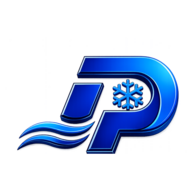
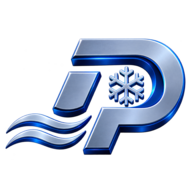
Corrige status de obras e atualiza identidade ProAR

diff --git a/app/page.tsx b/app/page.tsx
@@ -189,10 +189,10 @@ type Customer = {
   financialStatus?: "Liberado" | "Alerta" | "Somente à vista" | "Bloqueado";
 };
 
-type HouseWorkStatus = "AG. FRIGORÍGENA" | "AG. ACABAMENTO" | "AG. TUBULAÇÃO FORÇADA" | "AG. EXAUSTOR" | "AG. TAMPA FRIGORÍGENA" | "SERVIÇO CONCLUÍDO";
+type HouseWorkStatus = "INÍCIO DE OBRA" | "AG. FRIGORÍGENA" | "AG. ACABAMENTO" | "AG. TUBULAÇÃO FORÇADA" | "AG. EXAUSTOR" | "AG. TAMPA FRIGORÍGENA" | "SERVIÇO CONCLUÍDO";
 type LegacyHouseWorkStatus = "AG FRIGORÍGENA" | "AG VENTO KIT" | "VENTOKIT E FRIGORÍGENA OK" | "AG ACABAMENTO" | "AG EXAUSTOR" | "AG TAMPA FRIGORÍGENA" | "FIM";
 type HouseStagePhoto = { label: string; url: string };
-type HouseWorkUpdate = { id: string; status: HouseWorkStatus | LegacyHouseWorkStatus; note: string; responsible?: string; photo?: string; photos?: string[] | HouseStagePhoto[]; createdAt: string; completedAt?: string };
+type HouseWorkUpdate = { id: string; status: HouseWorkStatus | LegacyHouseWorkStatus; previousStatus?: HouseWorkStatus; note: string; responsible?: string; photo?: string; photos?: string[] | HouseStagePhoto[]; createdAt: string; completedAt?: string; origin?: string };
 type HouseIncident = { id: string; type: "Perda" | "Roubo"; note: string; photo: string; responsible: string; createdAt: string };
 type HouseWorkItem = { id: string; block: string; lot: number; kind?: "house" | "common"; name?: string; status: HouseWorkStatus | LegacyHouseWorkStatus; photo?: string; photos?: string[] | HouseStagePhoto[]; note?: string; updatedAt?: string; history: HouseWorkUpdate[]; incidents?: HouseIncident[] };
 type WorkBlock = { block: string; houses: number };
@@ -206,11 +206,12 @@ const HOUSE_BLOCKS = [
 ] as const;
 const RESERVA_IMPERIAL: WorkProject = { id: "reserva-imperial", name: "Reserva Imperial", blocks: HOUSE_BLOCKS.map(item => ({...item})), commonAreas: ["Academia", "Salão de Festas", "Área Gourmet", "Administrativo"], createdAt: "2026-08-11T00:00:00.000Z" };
 const HOUSE_STATUSES: { name: HouseWorkStatus; color: string }[] = [
-  { name: "AG. FRIGORÍGENA", color: "#ef4444" }, { name: "AG. ACABAMENTO", color: "#f59e0b" },
+  { name: "INÍCIO DE OBRA", color: "#64748b" }, { name: "AG. FRIGORÍGENA", color: "#ef4444" }, { name: "AG. ACABAMENTO", color: "#f59e0b" },
   { name: "AG. TUBULAÇÃO FORÇADA", color: "#8b5cf6" }, { name: "AG. EXAUSTOR", color: "#06b6d4" },
   { name: "AG. TAMPA FRIGORÍGENA", color: "#3b82f6" }, { name: "SERVIÇO CONCLUÍDO", color: "#16a34a" },
 ];
 const HOUSE_STAGE_PHOTOS: Record<HouseWorkStatus, string[]> = {
+  "INÍCIO DE OBRA": [],
   "AG. FRIGORÍGENA": ["Sala", "Quarto Frente", "Quarto Meio", "Quarto Fundo", "Home"],
   "AG. ACABAMENTO": ["Sala", "Quarto Frente", "Quarto Meio", "Quarto Fundo", "Home", "VTK Fundo"],
   "AG. TUBULAÇÃO FORÇADA": ["Tubulação Forçada"],
@@ -219,11 +220,11 @@ const HOUSE_STAGE_PHOTOS: Record<HouseWorkStatus, string[]> = {
   "SERVIÇO CONCLUÍDO": [],
 };
 const HOUSE_STAGE_OPTIONAL_PHOTOS: HouseWorkStatus[] = ["AG. TUBULAÇÃO FORÇADA"];
-const LEGACY_HOUSE_STATUS_MAP: Partial<Record<HouseWorkStatus | LegacyHouseWorkStatus, HouseWorkStatus>> = {
+const LEGACY_HOUSE_STATUS_MAP: Record<string, HouseWorkStatus> = {
   "AG FRIGORÍGENA": "AG. FRIGORÍGENA", "AG VENTO KIT": "AG. TUBULAÇÃO FORÇADA", "VENTOKIT E FRIGORÍGENA OK": "AG. TUBULAÇÃO FORÇADA",
-  "AG ACABAMENTO": "AG. ACABAMENTO", "AG EXAUSTOR": "AG. EXAUSTOR", "AG TAMPA FRIGORÍGENA": "AG. TAMPA FRIGORÍGENA", "FIM": "SERVIÇO CONCLUÍDO",
+  "AG ACABAMENTO": "AG. ACABAMENTO", "AG EXAUSTOR": "AG. EXAUSTOR", "AG. EXAUTOR": "AG. EXAUSTOR", "AG EXAUTOR": "AG. EXAUSTOR", "ag_exautor": "AG. EXAUSTOR", "ag-exaustor": "AG. EXAUSTOR", "AG TAMPA FRIGORÍGENA": "AG. TAMPA FRIGORÍGENA", "FIM": "SERVIÇO CONCLUÍDO",
 };
-const normalizeHouseStatus = (status: HouseWorkStatus | LegacyHouseWorkStatus): HouseWorkStatus => LEGACY_HOUSE_STATUS_MAP[status] || status as HouseWorkStatus;
+const normalizeHouseStatus = (status: HouseWorkStatus | LegacyHouseWorkStatus | string): HouseWorkStatus => LEGACY_HOUSE_STATUS_MAP[status as HouseWorkStatus] || status as HouseWorkStatus;
 const normalizeStagePhotos = (photos: HouseWorkUpdate["photos"], photo: string | undefined, status: HouseWorkStatus | LegacyHouseWorkStatus): HouseStagePhoto[] => {
   const values = photos?.length ? photos : photo ? [photo] : [];
   const labels = HOUSE_STAGE_PHOTOS[normalizeHouseStatus(status)];
@@ -536,7 +537,7 @@ function CustomerDetail({ customerName, customers, structures, serviceOrders, mo
     <div className="detail-header">
       <button className="back-button" onClick={onBack}><ArrowLeft size={16}/> Voltar aos clientes</button>
       <div className="detail-identity"><span>{customer.name.split(" ").map(x => x[0]).slice(0,2).join("")}</span><div><small>CLIENTE CADASTRADO</small><h2>{customer.name}</h2><p>{customer.doc || "Documento não informado"} • {customer.address || "Endereço não informado"}</p></div></div>
-      <button className="outline-btn"><Edit3 size={14}/> Editar cliente</button>
+      <div className="detail-header-actions"><ContextReports title={`Cliente ${customer.name}`} rows={[["Cliente",customer.name],["CPF/CNPJ",customer.doc],["Telefone",customer.phone]]} options={["Cliente 360°","Equipamentos","Ordens de Serviço","Vendas","Financeiro","Histórico","Documentos"]}/><button className="outline-btn"><Edit3 size={14}/> Editar cliente</button></div>
     </div>
     <nav className="detail-tabs" aria-label="Abas do cliente">{tabs.map(item => <button key={item} className={tab === item ? "active" : ""} onClick={() => setTab(item)}>{item}{item === "Cadastro de unidade e setor" && <em>{linkedRecords.length}</em>}</button>)}</nav>
     {isStructureTab ? <div className="units-content">
@@ -638,7 +639,7 @@ function ServiceOrders({ onOpen, onSelect, onDelete, onUpdate, serviceOrders, cu
     } catch (error) { onUpdate({ ...order, nfseStatus:"Erro", nfseValue:value }); window.alert(error instanceof Error ? error.message : "Não foi possível emitir a NFS-e."); }
   };
   return <section className="module-page service-orders">
-    <div className="module-toolbar"><label className="list-search"><Search size={15}/><input value={query} onChange={event=>setQuery(event.target.value)} placeholder="Pesquisar por cliente, OS, CPF/CNPJ, telefone ou unidade..."/></label><button className="outline-btn"><Filter size={14}/> Filtros</button><button className="primary-btn" onClick={() => onOpen("Nova ordem de serviço")}><Plus size={16}/> Nova ordem de serviço</button></div>
+    <div className="module-toolbar"><label className="list-search"><Search size={15}/><input value={query} onChange={event=>setQuery(event.target.value)} placeholder="Pesquisar por cliente, OS, CPF/CNPJ, telefone ou unidade..."/></label><button className="outline-btn"><Filter size={14}/> Filtros</button><ContextReports title="Ordens de Serviço" rows={serviceOrders.map(order=>[order.id,order.client,order.status])} options={["Imprimir Ordem de Serviço","Relatório técnico","Certificado de higienização","Relatório fotográfico","Relatório da assistência técnica","Comprovante de entrega","Histórico completo da OS"]}/><button className="primary-btn" onClick={() => onOpen("Nova ordem de serviço")}><Plus size={16}/> Nova ordem de serviço</button></div>
     <div className="module-summary">
       <article><span><ClipboardList size={19}/></span><div><small>ORDENS ABERTAS</small><strong>{serviceOrders.filter(item => item.status !== "Concluída").length}</strong><em>{serviceOrders.filter(item => item.date === today).length} para hoje</em></div></article>
       <article><span><UserCheck size={19}/></span><div><small>TÉCNICOS EMPENHADOS</small><strong>{new Set(serviceOrders.map(item => item.tech).filter(Boolean)).size}</strong><em>Cadastros reais</em></div></article>
@@ -1188,6 +1189,16 @@ function downloadCsv(filename: string, rows: string[][]) {
   URL.revokeObjectURL(link.href);
 }
 
+function ContextReports({ title, options, rows = [] }: { title: string; options: string[]; rows?: string[][] }) {
+  const [open, setOpen] = useState(false);
+  const generate = (option: string, excel = false) => {
+    const filename = `${title}-${option}`.normalize("NFD").replace(/[\u0300-\u036f]/g,"").replace(/[^a-zA-Z0-9]+/g,"-").toLowerCase();
+    if (excel) downloadCsv(`${filename}.xls`, [["Relatório", option], ["Contexto", title], ["Gerado em", new Date().toLocaleString("pt-BR")], [], ...rows]); else window.print();
+    setOpen(false);
+  };
+  return <div className="context-reports"><button className="outline-btn" onClick={()=>setOpen(value=>!value)}><FileChartColumn size={14}/> Relatórios <ChevronDown size={13}/></button>{open && <div className="context-report-menu"><b>RELATÓRIOS DESTE REGISTRO</b>{options.map(option=><button key={option} onClick={()=>generate(option)}>{option}<FileText size={13}/></button>)}<footer><button onClick={()=>generate(options[0] || "Relatório",true)}><ArrowDownRight size={13}/> Exportar Excel</button><button onClick={()=>generate(options[0] || "Relatório")}><FileText size={13}/> Gerar PDF</button></footer></div>}</div>;
+}
+
 function Reports({ modules, customers, serviceOrders, company }: { modules: Record<string, ModuleRecord[]>; customers: Customer[]; serviceOrders: ServiceOrder[]; company: TenantCompany }) {
   const [startDate, setStartDate] = useState("");
   const [endDate, setEndDate] = useState("");
@@ -1355,14 +1366,14 @@ function HousesWorkModule({ companyId, company, responsibleUser = "Utilizador do
   const activeProject = projects.find(project => project.id === activeProjectId) ?? projects[0] ?? RESERVA_IMPERIAL;
   const storageKey = activeProject.id === RESERVA_IMPERIAL.id ? companyStorageKey(companyId, "obra-142-casas") : companyStorageKey(companyId, `obra-${activeProject.id}-itens`);
   const shareKey = activeProject.id === RESERVA_IMPERIAL.id ? companyStorageKey(companyId, "obra-142-public-token") : companyStorageKey(companyId, `obra-${activeProject.id}-public-token`);
-  const createHouses = (project = activeProject) => [...project.blocks.flatMap(({ block, houses }) => Array.from({ length: houses }, (_, index): HouseWorkItem => ({ id: `${block}-${String(index + 1).padStart(2, "0")}`, block, lot: index + 1, kind: "house", status: "AG. FRIGORÍGENA", history: [] }))), ...project.commonAreas.map((name,index): HouseWorkItem => ({ id:`common-${String(index + 1).padStart(2,"0")}`, block:"Áreas Comuns", lot:index + 1, kind:"common", name, status:"AG. FRIGORÍGENA", history:[] }))];
+  const createHouses = (project = activeProject) => [...project.blocks.flatMap(({ block, houses }) => Array.from({ length: houses }, (_, index): HouseWorkItem => ({ id: `${block}-${String(index + 1).padStart(2, "0")}`, block, lot: index + 1, kind: "house", status: "INÍCIO DE OBRA", history: [] }))), ...project.commonAreas.map((name,index): HouseWorkItem => ({ id:`common-${String(index + 1).padStart(2,"0")}`, block:"Áreas Comuns", lot:index + 1, kind:"common", name, status:"INÍCIO DE OBRA", history:[] }))];
   const [houses, setHouses] = useState<HouseWorkItem[]>([]);
   const [mapLoading, setMapLoading] = useState(true);
   const [blockFilter, setBlockFilter] = useState("Todas");
   const [statusFilter, setStatusFilter] = useState("Todos");
   const [query, setQuery] = useState("");
   const [editing, setEditing] = useState<HouseWorkItem | null>(null);
-  const [nextStatus, setNextStatus] = useState<HouseWorkStatus>("AG. FRIGORÍGENA");
+  const [nextStatus, setNextStatus] = useState<HouseWorkStatus>("INÍCIO DE OBRA");
   const [note, setNote] = useState("");
   const [photos, setPhotos] = useState<Record<string, string>>({});
   const [houseModalTab, setHouseModalTab] = useState<"Etapa" | "Perdas e Roubos">("Etapa");
@@ -1375,6 +1386,7 @@ function HousesWorkModule({ companyId, company, responsibleUser = "Utilizador do
   const [shareToken, setShareToken] = useState("");
   const [serverRevision, setServerRevision] = useState(0);
   const [mapOnline, setMapOnline] = useState(true);
+  const [saveState, setSaveState] = useState<"idle" | "saving" | "saved" | "error">("idle");
   const [workManagerOpen, setWorkManagerOpen] = useState(false);
   const [newWorkName, setNewWorkName] = useState("");
   const [newBlocks, setNewBlocks] = useState<WorkBlock[]>([{block:"A",houses:1}]);
@@ -1427,7 +1439,16 @@ function HousesWorkModule({ companyId, company, responsibleUser = "Utilizador do
     setHouses([]);setMapOnline(true);setMapLoading(true);
     void fetchServerMap().then(map=>{if(!map) return publishPublicMap(localHouses);}).catch(()=>{setMapOnline(false);setMapLoading(false);setReportNotice("Banco online indisponível. A cópia local não foi enviada nem definida como principal.");});
   },[storageKey,companyId,projectsReady,activeProject.id]);
-  const persist = (next: HouseWorkItem[]) => { setHouses(next);localStorage.setItem(storageKey,JSON.stringify(next));if(!navigator.onLine){localStorage.setItem(`${shareKey}:pending`,"1");setMapOnline(false);setReportNotice("Sem internet: alteração guardada somente neste aparelho.");return;}void publishPublicMap(next).then(()=>setReportNotice("Alteração salva no banco online e atualizada para todos os dispositivos.")).catch(error=>setReportNotice(error.message)); };
+  const persist = async (next: HouseWorkItem[]) => {
+    if (!navigator.onLine) { setSaveState("error"); setMapOnline(false); setReportNotice("Não foi possível salvar a alteração. Tente novamente."); return false; }
+    setSaveState("saving");
+    try {
+      await publishPublicMap(next);
+      setHouses(next); localStorage.setItem(storageKey,JSON.stringify(next));
+      setSaveState("saved"); setReportNotice("Alteração salva no banco online e atualizada para todos os dispositivos.");
+      window.setTimeout(()=>setSaveState("idle"),1800); return true;
+    } catch (error) { setSaveState("error"); setReportNotice("Não foi possível salvar a alteração. Tente novamente."); window.setTimeout(()=>setSaveState("idle"),3000); return false; }
+  };
   useEffect(() => {
     const synchronize=()=>{if(!navigator.onLine){setMapOnline(false);return;}if(localStorage.getItem(`${shareKey}:pending`))void publishPublicMap(houses).catch(error=>setReportNotice(error.message));else void fetchServerMap().catch(()=>setMapOnline(false));};
     const timer=window.setInterval(()=>{if(navigator.onLine&&!localStorage.getItem(`${shareKey}:pending`))void fetchServerMap().catch(()=>setMapOnline(false));},20000);
@@ -1488,7 +1509,7 @@ function HousesWorkModule({ companyId, company, responsibleUser = "Utilizador do
     const next=houses.map(item=>item.id===editing.id?{...item,updatedAt:createdAt,incidents:[incident,...(item.incidents??[])]}:item);
     persist(next); setEditing(next.find(item=>item.id===editing.id)??null); setIncidentNote(""); setIncidentPhoto(""); setReportNotice(`${incidentType} registrada com foto e responsável.`);
   };
-  const saveUpdate = () => {
+  const saveUpdate = async () => {
     if (!editing) return;
     const photoLabels = HOUSE_STAGE_PHOTOS[nextStatus];
     const requiredLabels = HOUSE_STAGE_OPTIONAL_PHOTOS.includes(nextStatus) ? [] : photoLabels;
@@ -1499,10 +1520,11 @@ function HousesWorkModule({ companyId, company, responsibleUser = "Utilizador do
     const observationChanged = note.trim() !== (editing.note ?? "").trim();
     const statusChanged = nextStatus !== normalizeHouseStatus(editing.status);
     const stagePhotos = photoLabels.filter(label => photos[label]).map(label => ({ label, url: photos[label] }));
-    const update: HouseWorkUpdate = { id: `${editing.id}-${Date.now()}`, status: nextStatus, note: note.trim(), responsible: responsibleUser, photos: stagePhotos.length ? stagePhotos : undefined, createdAt, completedAt: nextStatus === "SERVIÇO CONCLUÍDO" ? createdAt : undefined };
+    const previousStatus = normalizeHouseStatus(editing.status);
+    const update: HouseWorkUpdate = { id: `${editing.id}-${Date.now()}`, status: nextStatus, previousStatus, note: note.trim(), responsible: responsibleUser, photos: stagePhotos.length ? stagePhotos : undefined, createdAt, completedAt: nextStatus === "SERVIÇO CONCLUÍDO" ? createdAt : undefined, origin: typeof navigator === "undefined" ? "web" : navigator.userAgent };
     const next = houses.map(item => item.id === editing.id ? { ...item, status: nextStatus, note: note.trim() || item.note, photo: stagePhotos[0]?.url || item.photo, photos: stagePhotos.length ? stagePhotos : item.photos, updatedAt: createdAt, history: [update, ...(item.history ?? [])] } : item);
     if (!observationChanged && !statusChanged && !stagePhotos.length) { setEditing(null); return; }
-    persist(next); setEditing(null);
+    if (await persist(next)) setEditing(null);
   };
   if (mapLoading) return <section className="houses-app"><div className="work-online-loading"><RefreshCw size={24}/><div><b>A carregar {activeProject.name}</b><span>A consultar a base principal online. Nenhum valor local provisório será exibido.</span></div></div></section>;
   const visible = houses.filter(house => (blockFilter === "Todas" || house.block === blockFilter) && (statusFilter === "Todos" || normalizeHouseStatus(house.status) === statusFilter) && `${house.block} ${house.lot} ${house.id} ${house.name ?? ""}`.toLowerCase().includes(query.toLowerCase()));
@@ -1579,6 +1601,7 @@ function HousesWorkModule({ companyId, company, responsibleUser = "Utilizador do
     window.setTimeout(() => setReportNotice(""), 5000);
   };
   return <section className="houses-app">
+    {saveState !== "idle" && <div className={`work-save-bar ${saveState}`} role="status"><i/><span>{saveState === "saving" ? "A gravar alteração..." : saveState === "saved" ? "Alteração confirmada" : "Não foi possível salvar"}</span></div>}
     <div className="work-manager-bar"><div><span><Building2 size={17}/></span><label>Obra ativa<select value={activeProject.id} onChange={event=>selectWorkProject(event.target.value)}>{projects.map(project=><option key={project.id} value={project.id}>{project.name}</option>)}</select></label><small>{activeProject.blocks.length} quadra(s) • {activeProject.blocks.reduce((total,item)=>total+item.houses,0)} casas • {activeProject.commonAreas.length} áreas comuns</small></div><button className="primary-btn" onClick={()=>setWorkManagerOpen(true)}><Plus size={15}/> Cadastrar obra</button></div>
     <div className="houses-hero"><div><span className="section-kicker"><House size={12}/> CONTROLE DE EXECUÇÃO</span><h2>{activeProject.name}</h2><p>Acompanhamento individual das casas e áreas comuns, com evidências e histórico de execução.</p></div><div className="houses-public-share"><span><MapPin size={18}/></span><div><small>ACESSO DO CLIENTE</small><b>{shareToken ? "Mapa público ativo" : "Criar link de acompanhamento"}</b><em>{shareToken ? "Atualização automática em tempo real" : "O cliente verá somente o andamento da obra"}</em></div><button onClick={refreshWorkMap}><ArrowDownRight size={14}/> Atualizar</button><button onClick={sendWorkMap}><ArrowUpRight size={14}/> Enviar</button><button onClick={sharePublicMap}><MessageCircle size={14}/>{shareToken ? "Link" : "Criar link"}</button>{shareToken && <a href={`/obra/${shareToken}`} target="_blank" rel="noreferrer"><Eye size={14}/> Visualizar</a>}</div><div className="houses-progress"><div><small>PROGRESSO GERAL</small><strong>{completion}%</strong></div><i><b style={{ width: `${completion}%` }}/></i><span>{completed} finalizadas de {houses.length} unidades cadastradas</span></div></div>
     <div className="houses-kpis"><article><span><House size={18}/></span><div><small>TOTAL CADASTRADO</small><strong>{houses.length}</strong><em>{activeProject.blocks.length} quadras • {activeProject.commonAreas.length} áreas comuns</em></div></article>{HOUSE_STATUSES.map(status => { const total = houses.filter(house => normalizeHouseStatus(house.status) === status.name).length; return <article key={status.name}><i style={{background:status.color}}/><div><small>{status.name}</small><strong>{total}</strong><em>{Math.round(total / houses.length * 100)}% da obra</em></div></article>; })}</div>
@@ -1669,7 +1692,7 @@ function GenericModule({ name, onOpen, onDelete, onUpdate, onConvert, companyCnp
     return values.some(value => String(candidate.client || candidate.supplier || "").trim().toLowerCase() === value);
   };
   return <section className="module-page management-module">
-    <div className="management-hero"><div><span className="section-kicker"><Grid2X2 size={12}/> MÓDULO PROAR</span><h2>{name}</h2><p>{descriptions[name] || `Consulte, cadastre e acompanhe todas as informações de ${name.toLowerCase()} em um só lugar.`}</p>{name === "Compras" && nfeStatus && <small className="nfe-search-status">{nfeStatus}</small>}</div><div className="management-actions">{name === "Compras" && <button className="outline-btn" onClick={searchDestinedNfe}><Search size={14}/> Buscar NF-e destinadas</button>}<button className="outline-btn" onClick={() => window.print()}><FileText size={14}/> Imprimir</button><button className="outline-btn" onClick={exportRecords}><ArrowDownRight size={14}/> Exportar</button><button className="primary-btn" onClick={() => onOpen(`Novo registro • ${name}`)}><Plus size={16}/> {name === "Compras" ? "Nova compra" : name === "Fornecedores" ? "Novo fornecedor" : name === "Financeiro" ? "Novo lançamento" : name === "Obras" ? "Nova obra" : "Novo registro"}</button></div></div>
+    <div className="management-hero"><div><span className="section-kicker"><Grid2X2 size={12}/> MÓDULO PROAR</span><h2>{name}</h2><p>{descriptions[name] || `Consulte, cadastre e acompanhe todas as informações de ${name.toLowerCase()} em um só lugar.`}</p>{name === "Compras" && nfeStatus && <small className="nfe-search-status">{nfeStatus}</small>}</div><div className="management-actions">{name === "Compras" && <button className="outline-btn" onClick={searchDestinedNfe}><Search size={14}/> Buscar NF-e destinadas</button>}<ContextReports title={name} rows={filtered.map(record=>[record.id,record.name,record.status || "",String(record.value ?? "")])} options={name === "Equipamentos" ? ["Ficha técnica","Histórico de manutenção","Histórico de OS","Higienizações","Pendências","QR Code"] : name === "Estoque" ? ["Posição atual","Movimentações","Perdas","Reservas","Inventário"] : name === "Compras" ? ["Solicitação","Aprovação","Pedido","Recebimento","Divergências"] : name === "Financeiro" ? ["Conta específica","Contas a pagar","Contas a receber","Fluxo de caixa","Extrato","Resultado"] : name === "Orçamentos" ? ["Proposta comercial","Versão atual","Versões anteriores","Relatório sem valores internos"] : name === "Vendas" ? ["Comprovante da venda","Pedido","Relação de itens","Relatório financeiro da venda","Impressão sem valores"] : ["Relatório do módulo","Histórico","Documentos"]}/><button className="outline-btn" onClick={() => window.print()}><FileText size={14}/> Imprimir</button><button className="outline-btn" onClick={exportRecords}><ArrowDownRight size={14}/> Exportar</button><button className="primary-btn" onClick={() => onOpen(`Novo registro • ${name}`)}><Plus size={16}/> {name === "Compras" ? "Nova compra" : name === "Fornecedores" ? "Novo fornecedor" : name === "Financeiro" ? "Novo lançamento" : name === "Obras" ? "Nova obra" : "Novo registro"}</button></div></div>
     <div className="management-stats"><article><span><ClipboardList size={18}/></span><div><small>TOTAL DE REGISTROS</small><strong>{records.length}</strong></div></article><article><span><Clock3 size={18}/></span><div><small>PENDENTES / EM ABERTO</small><strong>{records.filter(record => /Rascunho|Aguardando|aberto|Vencida|Pendente/i.test(record.status || "")).length}</strong></div></article><article><span><CircleDollarSign size={18}/></span><div><small>VALOR REGISTRADO</small><strong>R$ {totalValue.toLocaleString("pt-BR", { minimumFractionDigits: 2 })}</strong></div></article></div>
     {managementFlows[name] && <div className="management-flow">{managementFlows[name].map((step, index) => <article key={step.title}><span>{String(index + 1).padStart(2, "0")}</span><div><b>{step.title}</b><small>{step.text}</small></div>{index < managementFlows[name].length - 1 && <ChevronRight size={14}/>}</article>)}</div>}
     <nav className="management-tabs" aria-label={`Áreas de ${name}`}>{tabs.map(tab => <button key={tab} className={activeView === tab ? "active" : ""} onClick={() => setActiveView(tab)}>{tab}</button>)}</nav>

diff --git a/app/globals.css b/app/globals.css
@@ -102,3 +102,6 @@ footer{height:48px;border-top:1px solid #e3e9f0;color:#9aa5b4;display:flex;justi
 
 /* Cadastro de cliente — reconhecimento automático CPF/CNPJ */
 .customer-auto-document{padding:16px 18px;border:1px solid #dbe7f3;border-radius:14px;background:#f8fbff}.customer-auto-document span{font-size:11px;font-weight:800;letter-spacing:.08em;color:#3973a8}.customer-auto-document h3{margin:3px 0 4px}.customer-auto-document p{margin:0;color:#64748b;font-size:12px}.document-lookup-status{padding:10px 12px;border-radius:10px;background:#f1f5f9;color:#475569;font-size:12px}.document-lookup-status.ok{background:#ecfdf5;color:#166534;border:1px solid #bbf7d0}.document-lookup-status.error{background:#fff7ed;color:#9a3412;border:1px solid #fed7aa}
+/* Marca ProAR e confirmação discreta de sincronização de Obras */
+.login-brand{background-image:linear-gradient(90deg,rgba(2,9,20,.83),rgba(3,18,39,.56)),url('/proar-login-cover.png');background-size:cover;background-position:center}.login-brand:before{content:"";position:absolute;inset:0;background:linear-gradient(180deg,rgba(1,7,17,.14),rgba(1,7,17,.72));pointer-events:none}.login-brand>*{position:relative;z-index:1}.login-official-logo{max-width:270px;width:min(270px,70%);margin:0 0 20px}.work-save-bar{position:sticky;top:0;z-index:30;height:4px;background:#dbeafe;overflow:visible}.work-save-bar i{display:block;height:100%;width:42%;background:#1684f7;animation:workSaving 1s ease-in-out infinite}.work-save-bar span{position:absolute;right:12px;top:7px;font-size:10px;font-weight:750;color:#3b5673;background:#fff;padding:4px 8px;border:1px solid #dce8f5;border-radius:7px;box-shadow:0 5px 14px rgba(15,50,90,.1)}.work-save-bar.saved{background:#bbf7d0}.work-save-bar.saved i{width:100%;background:#16a34a;animation:none}.work-save-bar.error{background:#fee2e2}.work-save-bar.error i{width:100%;background:#dc2626;animation:none}@keyframes workSaving{0%{transform:translateX(-100%)}100%{transform:translateX(250%)}}
+.context-reports{position:relative}.context-report-menu{position:absolute;right:0;top:calc(100% + 7px);z-index:80;width:min(310px,88vw);padding:10px;border:1px solid #dce6f2;border-radius:12px;background:#fff;box-shadow:0 18px 40px rgba(15,43,82,.18)}.context-report-menu>b{display:block;padding:4px 6px 8px;color:#72839a;font-size:7px;letter-spacing:.08em}.context-report-menu>button,.context-report-menu footer button{width:100%;min-height:34px;border:0;border-radius:8px;background:transparent;color:#294560;padding:0 8px;display:flex;align-items:center;justify-content:space-between;font-size:8px;text-align:left}.context-report-menu>button:hover{background:#edf5ff;color:#1768df}.context-report-menu footer{display:grid;grid-template-columns:1fr 1fr;gap:6px;margin-top:8px;padding-top:8px;border-top:1px solid #e7edf4}.context-report-menu footer button{justify-content:center;gap:5px;background:#edf5ff;color:#1768df;font-weight:800}.detail-header-actions{display:flex;gap:8px;align-items:center}

diff --git a/app/obra/[token]/page.tsx b/app/obra/[token]/page.tsx
@@ -9,9 +9,9 @@ type Update = { id: string; status: string; note?: string; responsible?: string;
 type Incident = { id: string; type: "Perda" | "Roubo"; note?: string; photo: string; responsible: string; createdAt: string };
 type WorkHouse = { id: string; block: string; lot: number; kind?: "house" | "common"; name?: string; status: string; note?: string; updatedAt?: string; photo?: string; history?: Update[]; incidents?: Incident[] };
 type PublicMap = { title: string; workName?: string; houses: WorkHouse[]; updatedAt: string };
-const colors = ["#ef4444", "#f59e0b", "#8b5cf6", "#06b6d4", "#3b82f6", "#16a34a"];
-const statuses = ["AG. FRIGORÍGENA", "AG. ACABAMENTO", "AG. TUBULAÇÃO FORÇADA", "AG. EXAUSTOR", "AG. TAMPA FRIGORÍGENA", "SERVIÇO CONCLUÍDO"];
-const legacy: Record<string,string> = { "AG FRIGORÍGENA":"AG. FRIGORÍGENA", "AG VENTO KIT":"AG. TUBULAÇÃO FORÇADA", "VENTOKIT E FRIGORÍGENA OK":"AG. TUBULAÇÃO FORÇADA", "AG ACABAMENTO":"AG. ACABAMENTO", "AG EXAUSTOR":"AG. EXAUSTOR", "AG TAMPA FRIGORÍGENA":"AG. TAMPA FRIGORÍGENA", "FIM":"SERVIÇO CONCLUÍDO" };
+const colors = ["#64748b", "#ef4444", "#f59e0b", "#8b5cf6", "#06b6d4", "#3b82f6", "#16a34a"];
+const statuses = ["INÍCIO DE OBRA", "AG. FRIGORÍGENA", "AG. ACABAMENTO", "AG. TUBULAÇÃO FORÇADA", "AG. EXAUSTOR", "AG. TAMPA FRIGORÍGENA", "SERVIÇO CONCLUÍDO"];
+const legacy: Record<string,string> = { "AG FRIGORÍGENA":"AG. FRIGORÍGENA", "AG VENTO KIT":"AG. TUBULAÇÃO FORÇADA", "VENTOKIT E FRIGORÍGENA OK":"AG. TUBULAÇÃO FORÇADA", "AG ACABAMENTO":"AG. ACABAMENTO", "AG EXAUSTOR":"AG. EXAUSTOR", "AG. EXAUTOR":"AG. EXAUSTOR", "AG EXAUTOR":"AG. EXAUSTOR", "ag_exautor":"AG. EXAUSTOR", "AG TAMPA FRIGORÍGENA":"AG. TAMPA FRIGORÍGENA", "FIM":"SERVIÇO CONCLUÍDO" };
 const normalizeStatus = (status: string) => legacy[status] || status;
 const statusColor = (status: string) => colors[Math.max(0, statuses.indexOf(normalizeStatus(status)))] || "#64748b";
 const updatePhotos = (update: Update): StagePhoto[] => (update.photos?.length ? update.photos : update.photo ? [update.photo] : []).map((photo,index) => typeof photo === "string" ? { label:`Foto ${index + 1}`,url:photo } : photo);

diff --git a/app/layout.tsx b/app/layout.tsx
@@ -16,9 +16,9 @@ export const metadata: Metadata = {
   title: "ProAR Gestão de Serviços — BY TAV's",
   description: "ProAR Gestão de Serviços — BY TAV's | Sistema de Gestão Operacional, Comercial e Financeira.",
   icons: {
-    icon: "/api/brand-icon",
-    shortcut: "/api/brand-icon",
-    apple: "/api/brand-icon",
+    icon: "/icon-512.png",
+    shortcut: "/icon-192.png",
+    apple: "/icon-192.png",
   },
 };
 
